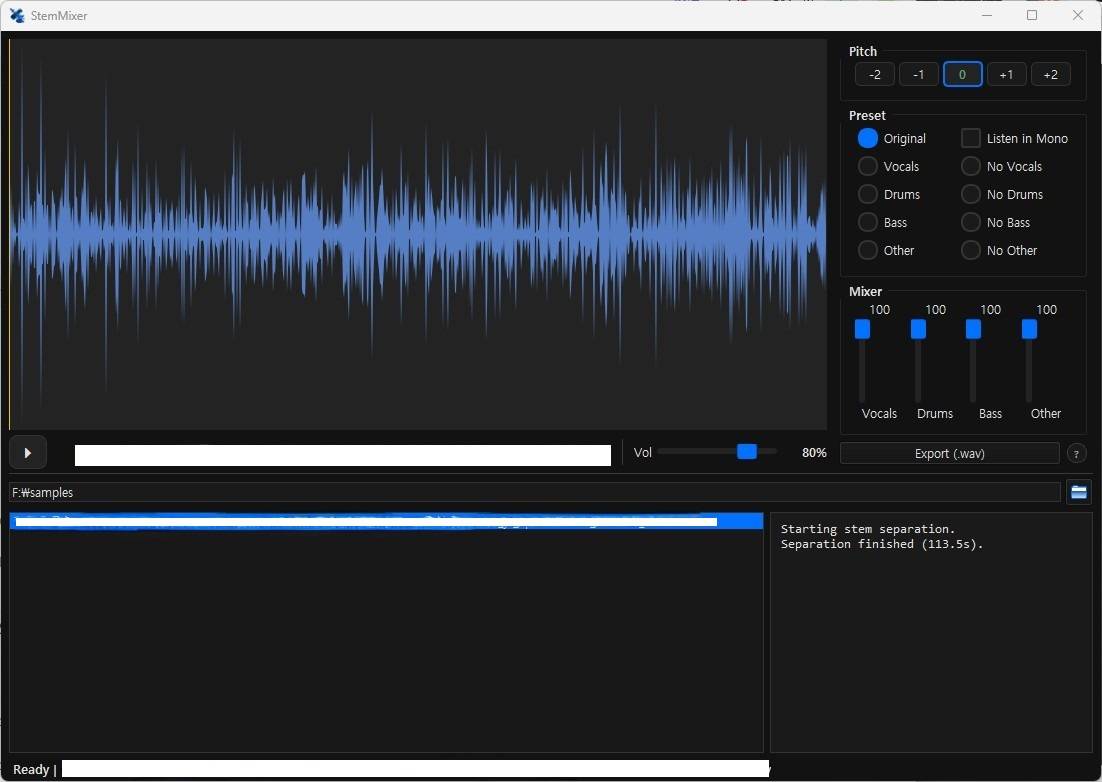
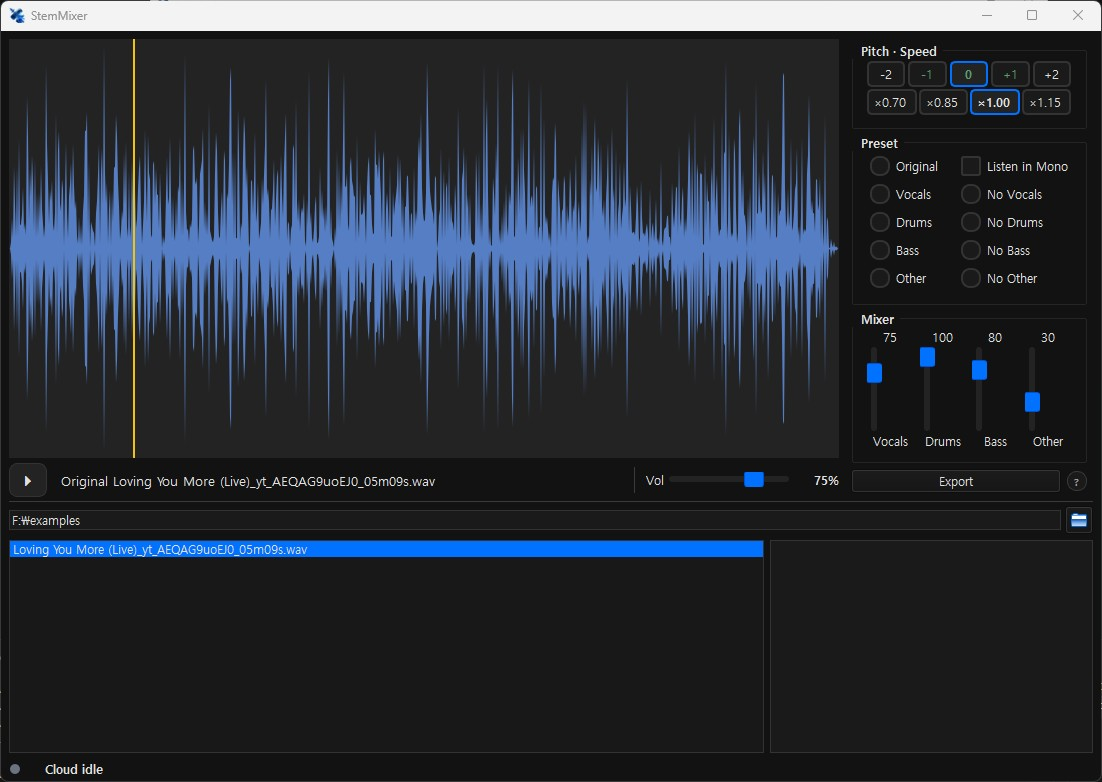
docs: update README for v1.1.0 + VocalRemover v1.0.2 and refresh screenshot

diff --git a/README.md b/README.md
@@ -3,7 +3,8 @@
 ![StemMixer Main Banner](images/readme_banner.png)
 
 ![Platform](https://img.shields.io/badge/Platform-Windows-0078D4?style=flat-square)
-![Version](https://img.shields.io/badge/Version-v1.0.2-41B883?style=flat-square)
+![StemMixer](https://img.shields.io/badge/StemMixer-v1.1.0-41B883?style=flat-square)
+![VocalRemover](https://img.shields.io/badge/VocalRemover-v1.0.2-41B883?style=flat-square)
 [![Website](https://img.shields.io/badge/Website-stemmixer-41B883?style=flat-square)](https://acegikm7on.github.io/StemMixer-Release/)
 
 **StemMixer** is a Windows AI stem separation app that separates a song into **vocals, drums, bass, and instruments**.  
@@ -22,26 +23,38 @@ It also supports vocal remover workflows, pitch shifting, per-stem volume mixing
 
 ### StemMixer
 
-[**StemMixer v1.0.2 Installer (exe) 다운로드**](https://github.com/acegikm7on/StemMixer-Release/releases/latest/download/StemMixer_v1.0.2_Installer.exe)
+[**StemMixer v1.1.0 Installer (exe) 다운로드**](https://github.com/acegikm7on/StemMixer-Release/releases/latest/download/StemMixer_v1.1.0_Installer.exe)
 
 ### VocalRemover (보컬 제거 특화)
 
-[**VocalRemover v1.0.1 Installer (exe) 다운로드**](https://github.com/acegikm7on/StemMixer-Release/releases/latest/download/VocalRemover_v1.0.1_Installer.exe)
+[**VocalRemover v1.0.2 Installer (exe) 다운로드**](https://github.com/acegikm7on/StemMixer-Release/releases/latest/download/VocalRemover_v1.0.2_Installer.exe)
 
 ---
 
-## 주요 기능
+## 주요 기능 (StemMixer)
 
 | 기능 | 설명 |
 |---|---|
 | AI 스템 분리 | 한 곡을 보컬 · 드럼 · 베이스 · 기타/건반 스템으로 자동 분리 |
+| HQ Vocal | 고품질 보컬 분리(하이브리드 클라우드) |
 | 피치 시프트 | ±2 반음 범위에서 키 변경 |
 | 자연스러운 보컬 | 키를 바꿔도 목소리 느낌 변화 최소화 |
+| 드럼 원음 유지 | 드럼은 원래 소리 그대로 유지 |
+| 재생 속도 | 분리 결과 재생 속도 조절 |
 | 악기별 믹서 | 각 스템의 볼륨을 따로 조절 |
 | 프리셋 | 보컬 제거, 드럼 제거 등 자주 쓰는 조합 제공 |
 | 로컬 파일 지원 | PC에 저장된 음원 폴더를 불러와 사용 |
-| YouTube 지원 | YouTube URL을 붙여넣어 바로 사용 |
+| YouTube 지원 | YouTube URL · 플레이리스트를 붙여넣어 바로 사용 |
+| 빠른 다시 열기 | 이전 작업 결과를 빠르게 다시 불러옴 |
 | 보내기 | 현재 설정을 반영해 WAV 또는 MP3로 저장 |
+
+### VocalRemover
+
+| 기능 | 설명 |
+|---|---|
+| 보컬 제거 | 보컬/반주 블렌드 조절 후 MP3·WAV로 저장 |
+| YouTube · 플레이리스트 | URL 또는 플레이리스트에서 곡 선택 import |
+| 간단 UI | 스템 믹서 없이 보컬 제거에 특화 |
 
 ---
 
@@ -82,6 +95,7 @@ OPEN → SPLIT → MIX → SAVE
 | 분리 시작이 오래 걸림 | 잠시 기다린 뒤 다시 시도 |
 | 분리 실패 | 인터넷 연결 또는 방화벽 설정 확인 후 다시 시도 |
 | YouTube 로그인 요청 | 브라우저에서 YouTube 로그인 후 다시 시도 |
+| 앱 동작 이상 (StemMixer) | 활동 패널을 `Shift + 클릭`해 로그 확인 후 문의 |
 
 ---
 
@@ -97,27 +111,33 @@ StemMixer is a Windows AI stem separation and vocal remover app for separating a
 
 You can change key, adjust each stem level, and export the final result.
 
+**VocalRemover** is a companion app focused on **vocal removal** with a simpler mixer UI.
+
 ### Download
 
 **StemMixer**
 
-[**Download StemMixer v1.0.2 Installer (exe)**](https://github.com/acegikm7on/StemMixer-Release/releases/latest/download/StemMixer_v1.0.2_Installer.exe)
+[**Download StemMixer v1.1.0 Installer (exe)**](https://github.com/acegikm7on/StemMixer-Release/releases/latest/download/StemMixer_v1.1.0_Installer.exe)
 
 **VocalRemover**
 
-[**Download VocalRemover v1.0.1 Installer (exe)**](https://github.com/acegikm7on/StemMixer-Release/releases/latest/download/VocalRemover_v1.0.1_Installer.exe)
+[**Download VocalRemover v1.0.2 Installer (exe)**](https://github.com/acegikm7on/StemMixer-Release/releases/latest/download/VocalRemover_v1.0.2_Installer.exe)
 
-### Main Features
+### Main Features (StemMixer)
 
 | Feature | Description |
 | ------------------ | -------------------------------------------------------------- |
 | AI stem separation | Separate a song into vocals, drums, bass, and other stems |
+| HQ Vocal | Higher-quality vocal stem via hybrid cloud pipeline |
 | Pitch shift | Change key within ±2 semitones |
 | Vocal preservation | Keeps vocals more natural when changing key |
+| Drum bypass | Drums stay at the original pitch |
+| Playback speed | Adjust playback speed of separated stems |
 | Per-stem mixer | Adjust each stem level independently |
 | Presets | Quickly apply common combinations like no vocals or drums only |
 | Local files | Load audio files from your PC |
-| YouTube support | Paste a YouTube URL and use it directly |
+| YouTube support | Paste a YouTube URL or playlist and import tracks |
+| Fast reopen | Previously processed songs load faster |
 | Export | Save the result as WAV or MP3 |
 
 ### Workflow
